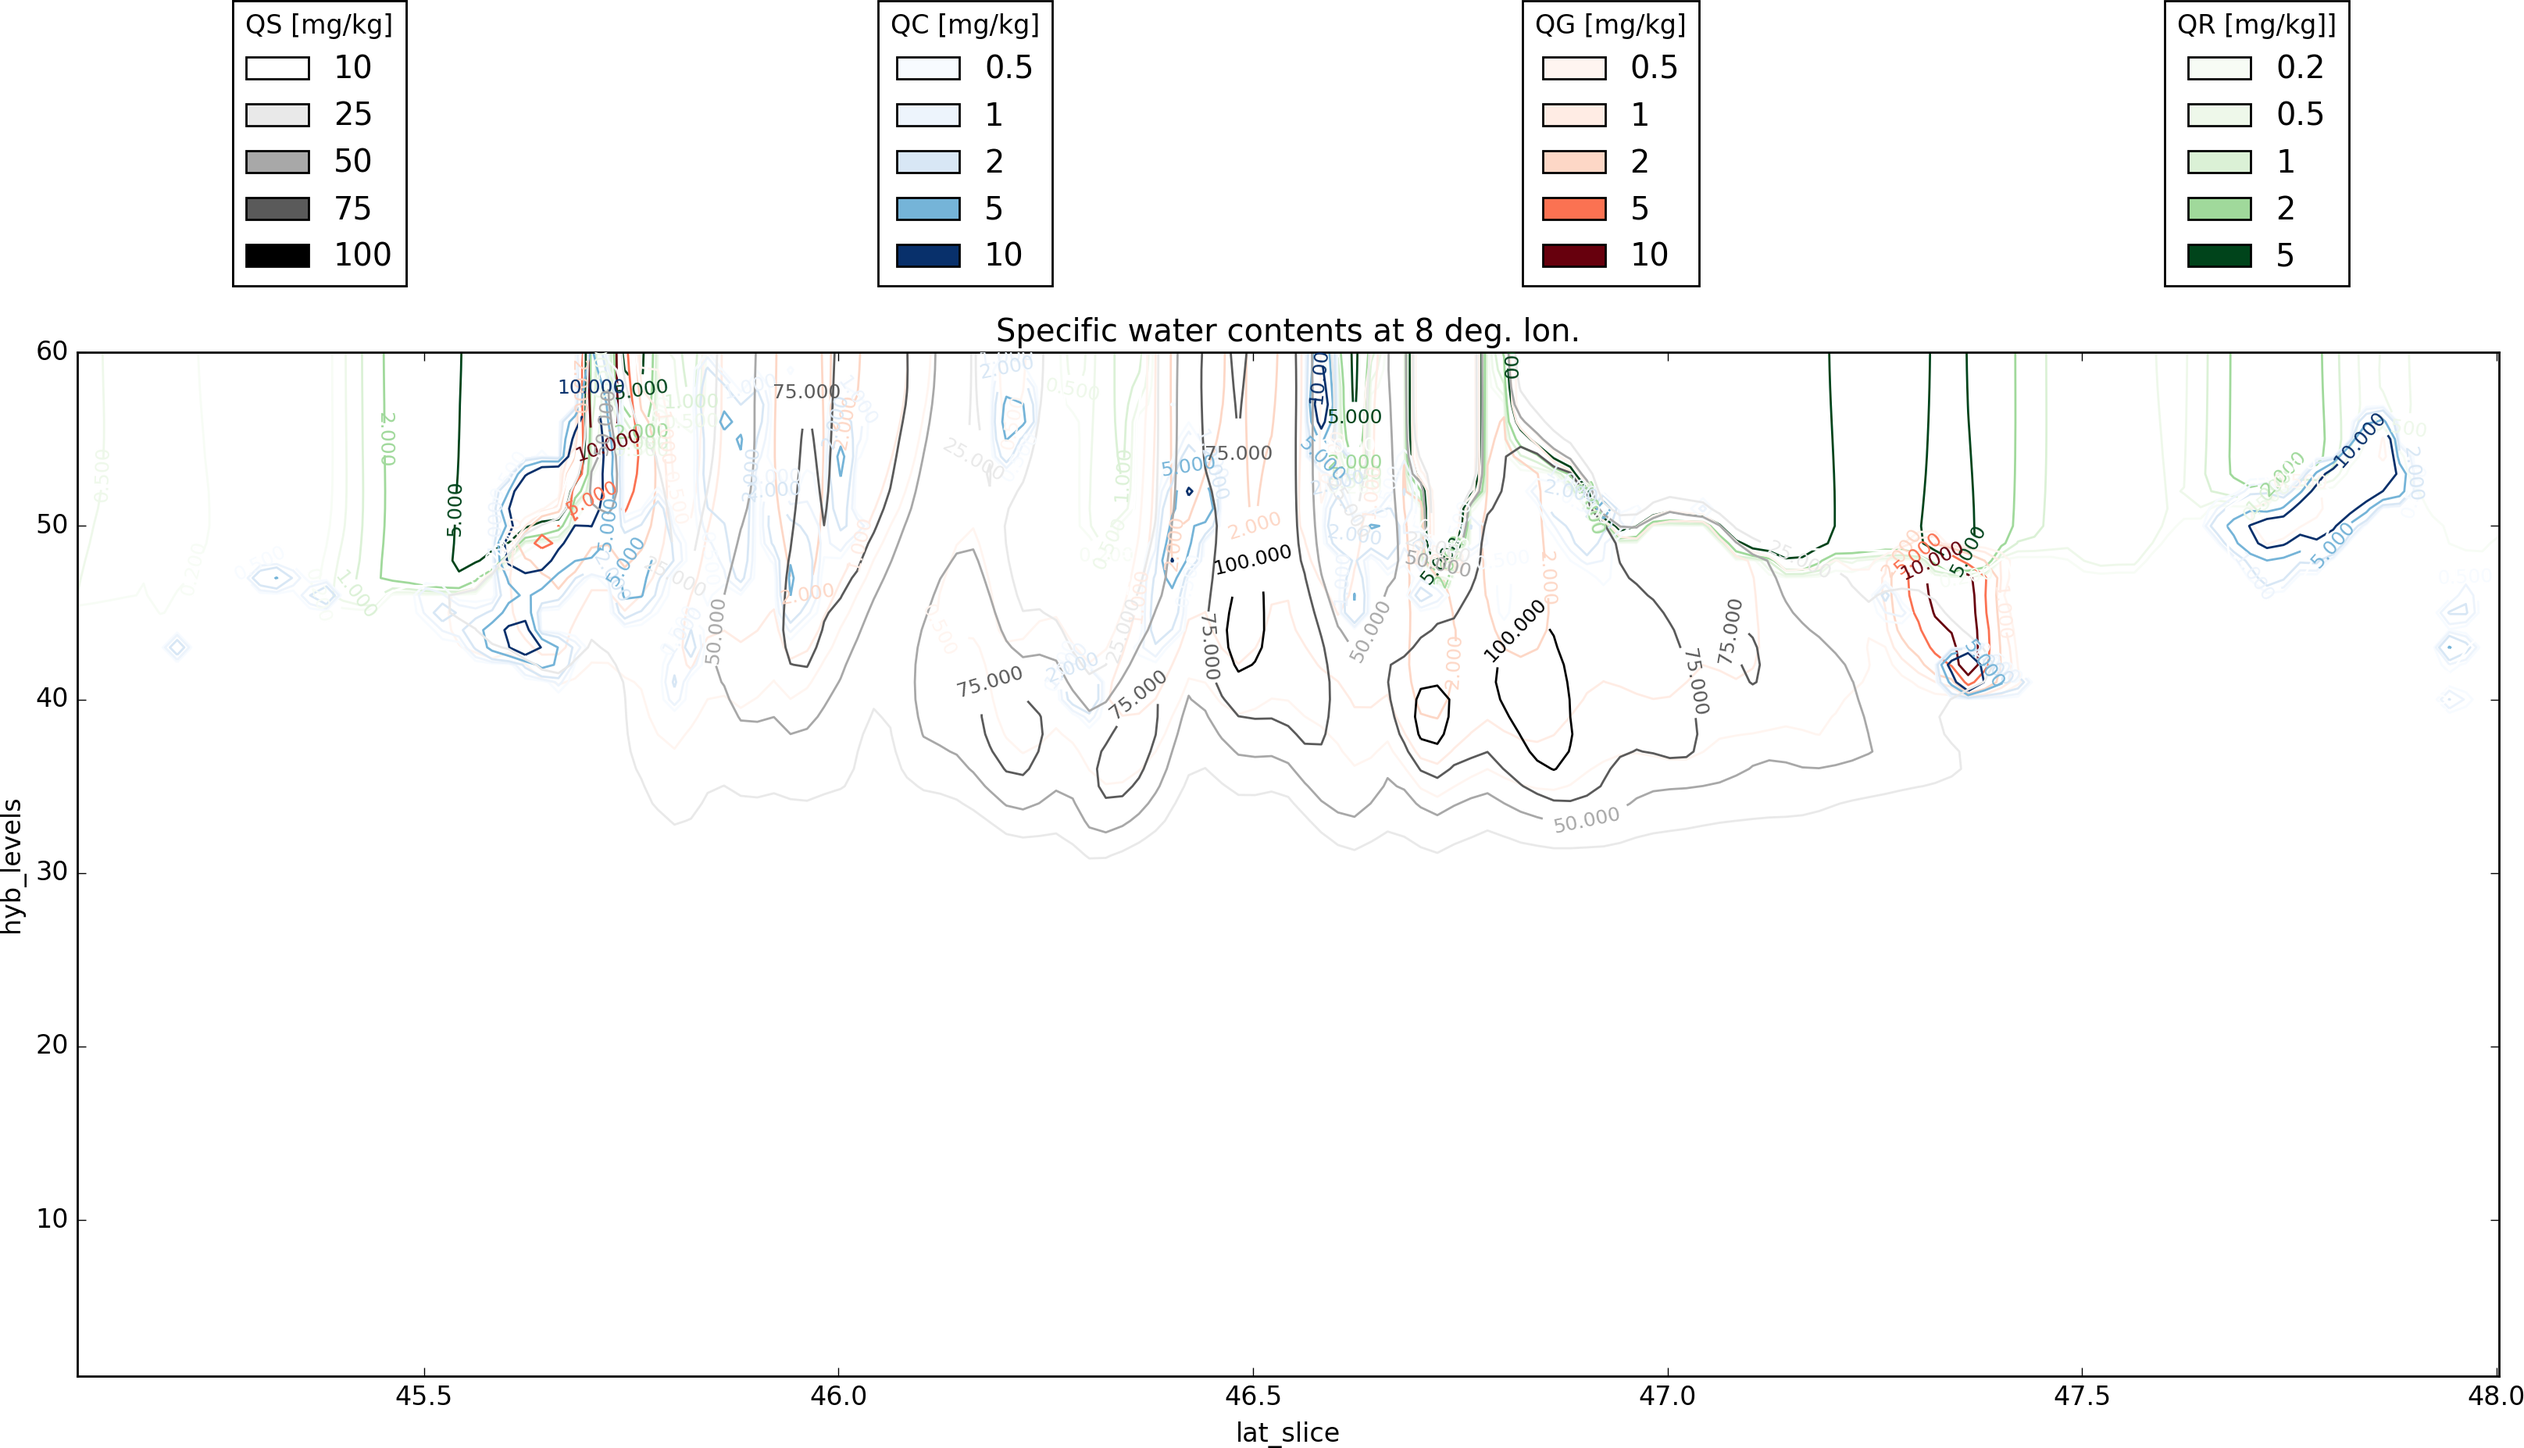
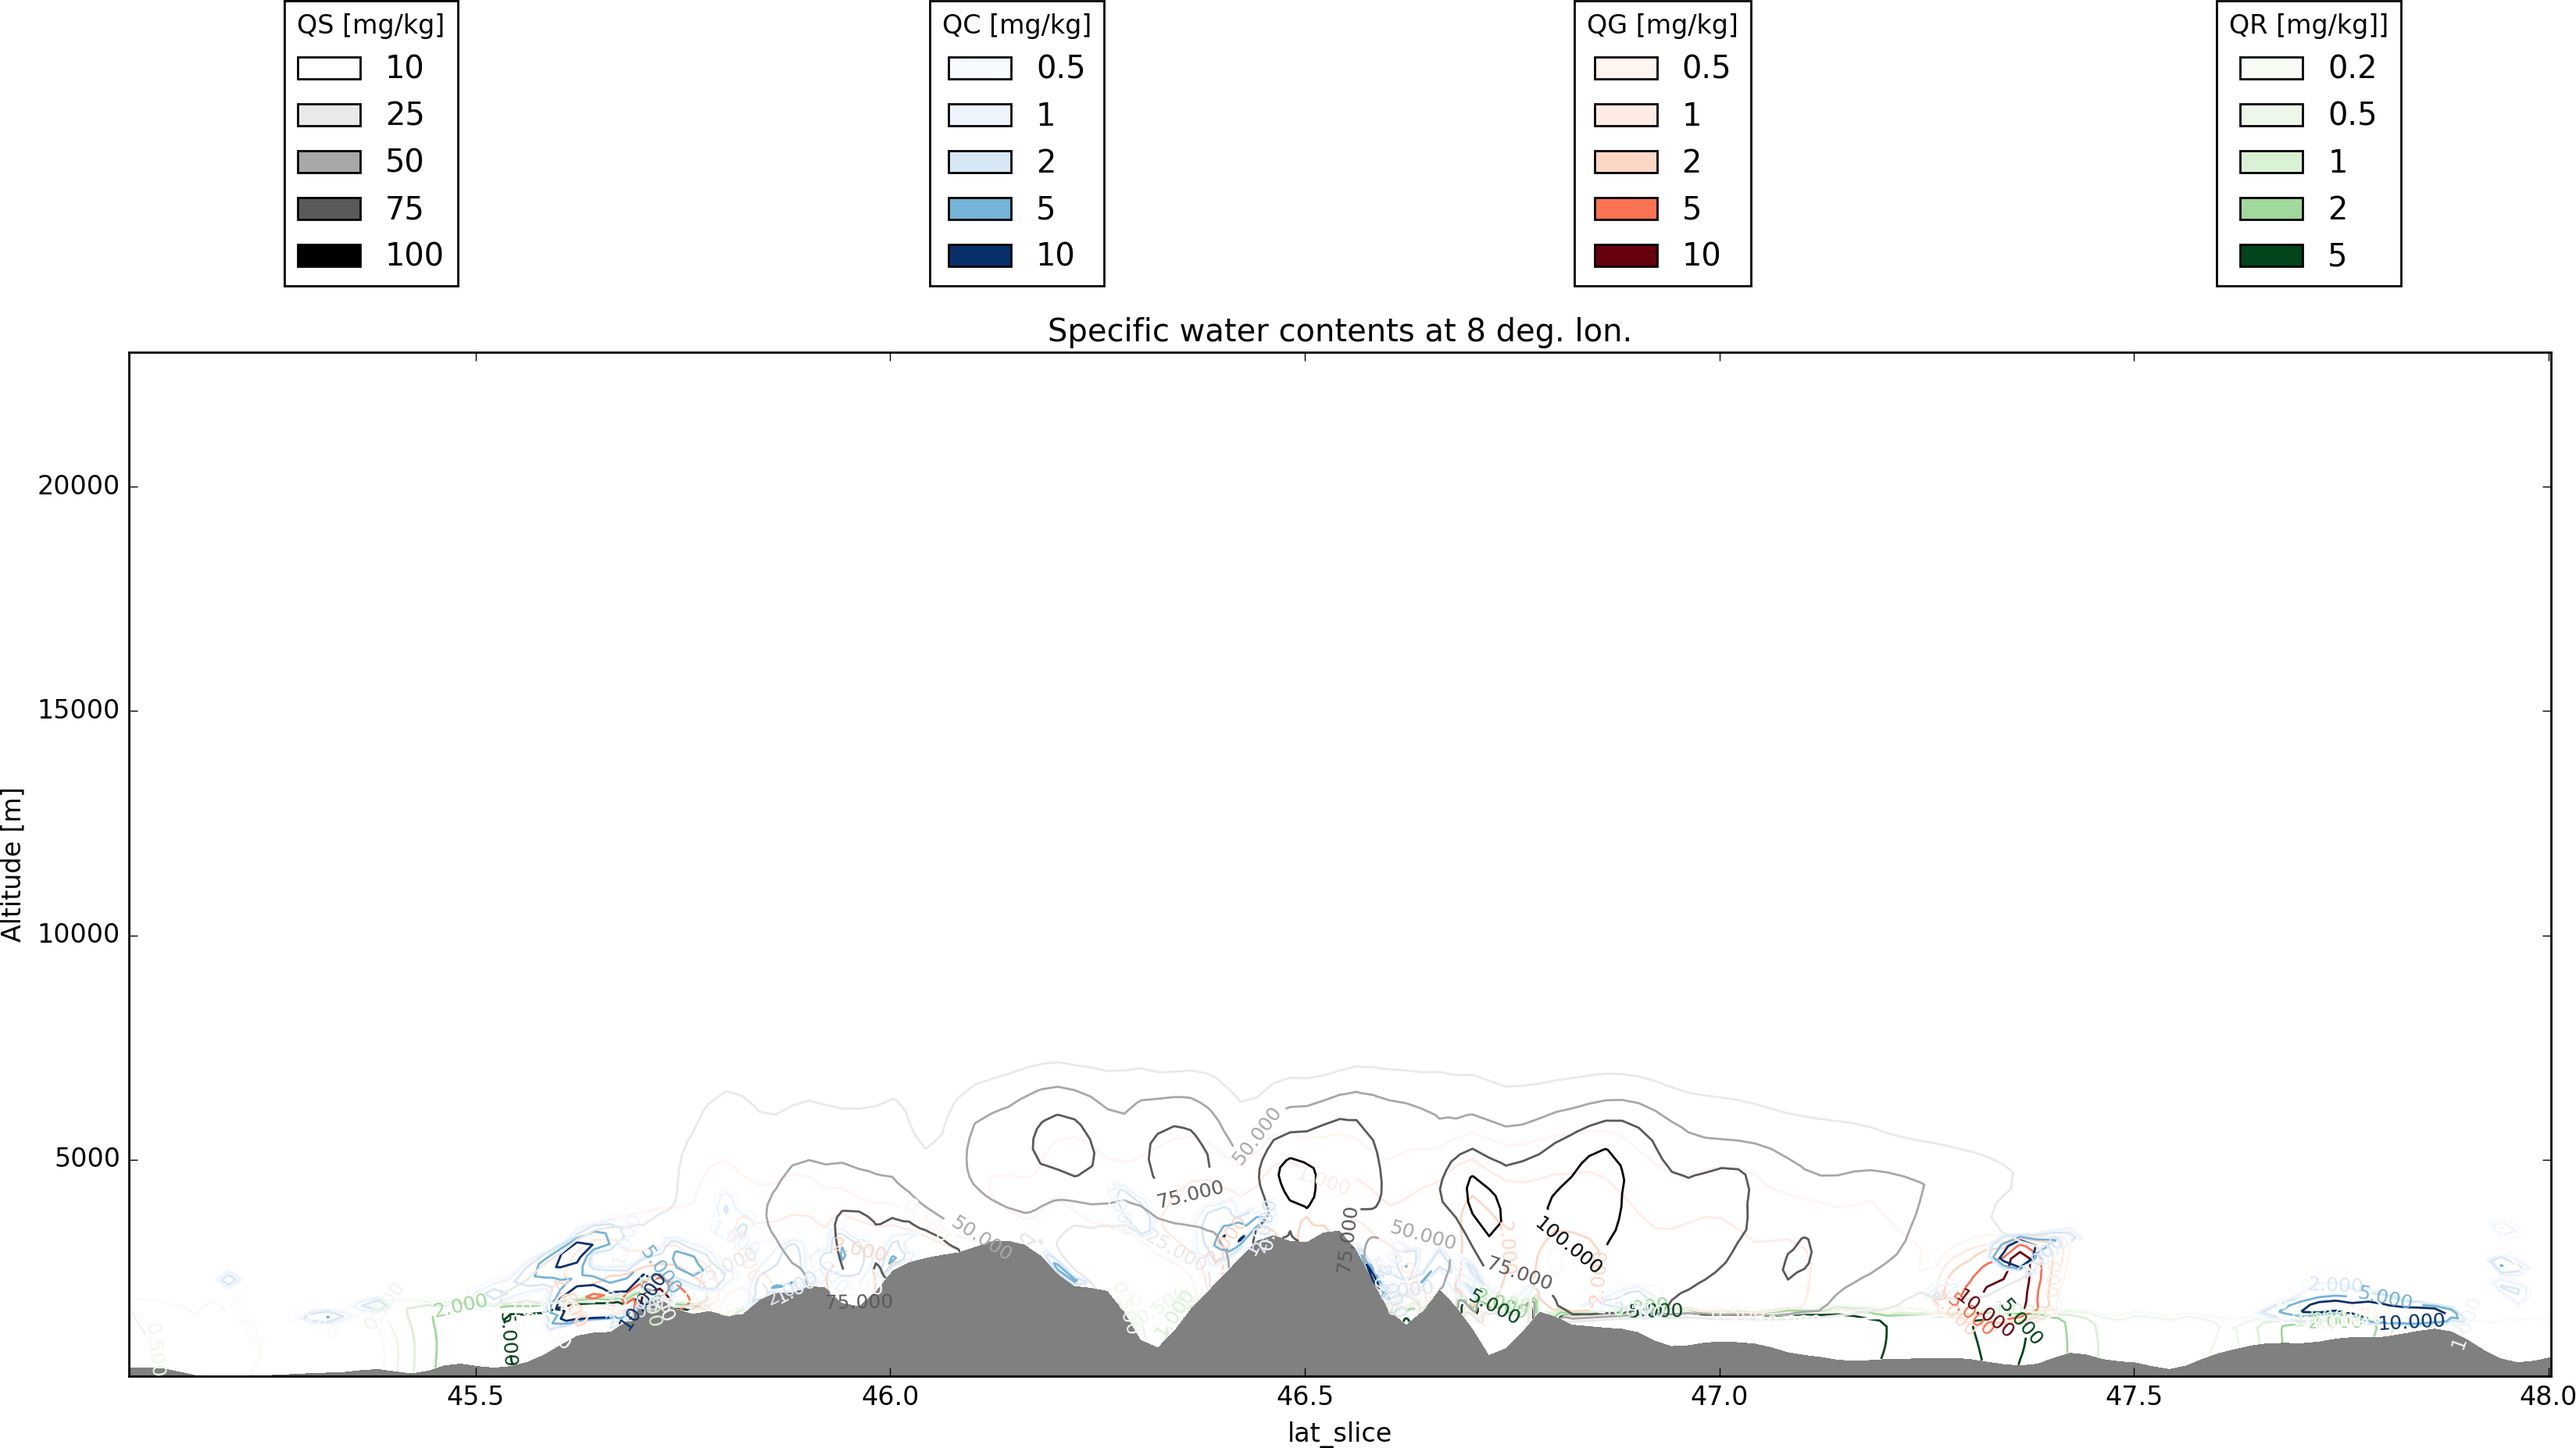
Version 1.0

diff --git a/pycosmo/graph.py b/pycosmo/graph.py
@@ -1,9 +1,7 @@
-import pycosmo.utilities as utilities
-
 import numpy as np
-from collections import OrderedDict
-from colormaps import get_colormap
+import matplotlib as mpl
 from matplotlib.colors import LogNorm
+import matplotlib.cm as cm
 import matplotlib.pyplot as plt
 from mpl_toolkits.axes_grid1.inset_locator import inset_axes
 
@@ -288,3 +286,76 @@ def _get_basemap(var, basemap = ''):
     basemap.drawmeridians(meridians,labels=[0,0,0,1],fontsize=10)
         
     return basemap
+
+
+'''
+get_colormap(col_type, position = None, log = False)
+
+Creates a colormap instance to be used in the DataClass.plot() function, either
+by getting a matplotlib colormap or by creating a new one depending on the input
+
+Inputs :
+col_type -> can be either a string or a list of 3D tuples (one for every color)
+            string has to be one of matplotlib's colormaps (http://matplotlib.org/examples/color/colormaps_reference.html)
+
+position ->  The position of every color along the color scale
+log      -> log: if True a log scale is used to define the positions of the colors
+'''
+
+def get_colormap(col_type, position = None, log = False):
+    try:
+        if col_type == 'precip':
+            colors = [(43,66,181), (67,222,139), (245,245,45), (252,45,45)] 
+            cmap = make_cmap(colors, bit=True)
+            cmap.set_under(color="LightGrey")
+        elif col_type in cm.__dict__.keys():
+            cmap=plt.get_cmap(col_type)    
+        else:
+            col_names = col_type
+            cmap = make_cmap(col_names, position = position, log = log, bit=True)
+    except:
+        print('Could not find or create appropriate colormap')
+        print('Assigning default one (jet)')
+        cmap=plt.get_cmap('jet')  
+
+    return cmap
+              
+             
+             
+def make_cmap(colors, position=None, bit=False, log=False):
+     '''
+     make_cmap takes a list of tuples which contain RGB values. The RGB
+     values may either be in 8-bit [0 to 255] (in which bit must be set to
+     True when called) or arithmetic [0 to 1] (default). make_cmap returns
+     a cmap with equally spaced colors.
+     Arrange your tuples so that the first color is the lowest value for the
+     colorbar and the last is the highest.
+     position contains values from 0 to 1 to dictate the location of
+     each color.
+     '''
+
+     bit_rgb = np.linspace(0,1,256)
+     if position == None:
+         if not log:
+             position = np.linspace(0,1,len(colors))
+         else:
+             position = (np.logspace(0,np.log10(11),len(colors))-1)/10.      
+             # This is to account for issue where position[-1] = 0.99999999...
+             position[0] = 0.
+             position[-1] = 1. 
+     else:
+         if len(position) != len(colors):
+             raise ValueError("position length must be the same as colors")
+         elif position[0] != 0 or position[-1] != 1:
+             raise ValueError("position must start with 0 and end with 1")
+     if bit:
+         for i in range(len(colors)):
+             colors[i] = (bit_rgb[colors[i][0]],bit_rgb[colors[i][1]],bit_rgb[colors[i][2]])
+     cdict = {'red':[], 'green':[], 'blue':[]}
+     for pos, color in zip(position, colors):
+         cdict['red'].append((pos, color[0], color[0]))
+         cdict['green'].append((pos, color[1], color[1]))
+         cdict['blue'].append((pos, color[2], color[2]))
+
+     cmap = mpl.colors.LinearSegmentedColormap('my_colormap',cdict,256)
+     return cmap

diff --git a/examples/example_3_plots.py b/examples/example_3_plots.py
@@ -94,7 +94,7 @@ colors are then linearly or logaritmically interpolated between levels
 
 options2['cmap']= pc.get_colormap([(216,179,101),(245,245,245),(90,180,172)],log=False) 
 options2['levels']= np.arange(0,5,0.2) # Define levels
-options2['plot_altitudes']=True # Define levels
+options2['alt_coordinates']=True 
 
 plt.figure()
 pc.plot(QV_prof,options2) #  Areas where topo > level are shown in light grey
@@ -175,7 +175,7 @@ options['filled']=False # Can be either true (default) or false
 options['scale']='linear' # Can be linear or log (useful for precip...)
 options['cargs']={"linewidths":1, 'linestyles':'-'} # Other arguments that must be given to the actual plotting method (contourf, contour) can be specified in a dictionary with a key called 'cargs'
 options['no_colorbar']=False # Will be False by default
-options['plot_altitudes'] = True
+options['alt_coordinates'] = True
 
 # Now we create options for a second variable
 options2=dict(options) 

diff --git a/pycosmo/__init__.py b/pycosmo/__init__.py
@@ -1,6 +1,5 @@
-from graph import plot, make_colorbar
+from graph import plot, make_colorbar, get_colormap
 from extract import extract, coords_profile
 from utilities import get_time_from_COSMO_filename,binary_search, vert_interp, \
 resize_domain, savefig, savevar, get_model_filenames, WGS_to_COSMO
-from colormaps import get_colormap
 from io import open_file
